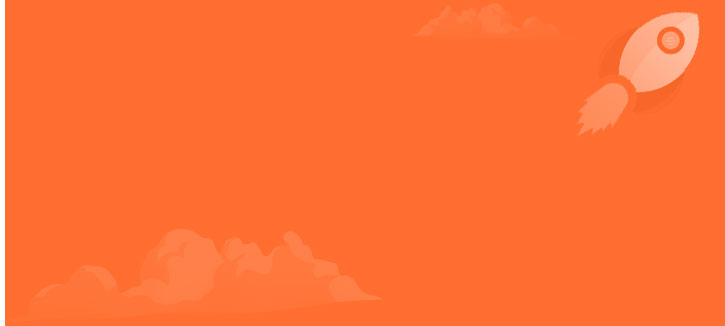
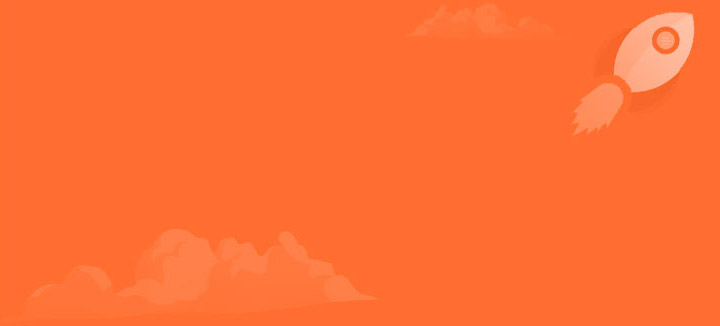
update

Changed region(s): [[0.0, 0.0, 0.0306, 1.0]]

diff --git a/activity/preview161218/html/presale.html b/activity/preview161218/html/presale.html
@@ -1,0 +1,35 @@
+<!DOCTYPE html>
+<html>
+
+<head>
+    <meta charset="utf-8">
+    <meta http-equiv="X-UA-Compatible" content="IE=edge">
+    <meta name="viewport" content="initial-scale=1, user-scalable=0, minimum-scale=1.0, maximum-scale=1.0, shrink-to-fit=no" />
+    <meta name="format-detection" content="telephone=no">
+    <title>preview161218</title>
+    <!-- build:css(dist) ../css/main.css -->
+    <link rel="stylesheet" href="../css/media.css">
+    <link rel="stylesheet" href="../css/animation.css">
+    <!-- endbuild -->
+    <link rel="stylesheet" href="../css/common.css">
+    <link rel="stylesheet" href="../css/presale.css">
+    <!-- build:js({dist}) ../js/lib/adapt.js -->
+    <script src="../js/adapt.js" type="text/javascript" charset="utf-8"></script>
+    <!-- endbuild -->
+</head>
+
+<body>
+    <div class="scroll">
+        <div class="content pre-cont">
+            <i class="icon-pre-txt title-heart"></i>
+            <i class="act-time">活动时间：12月13日-12月17日</i>
+        </div>
+    </div>
+    
+</body>
+<!-- build:js({dist}) ../js/lib/fastclick-jquery-1.8.3.js -->
+<script src="../js/fastclick-jquery-1.8.3.js" type="text/javascript" charset="utf-8"></script>
+<!-- endbuild -->
+<script src="../js/presale.js" type="text/javascript" charset="utf-8"></script>
+
+</html>

diff --git a/activity/preview161218/sass/index.scss b/activity/preview161218/sass/index.scss
@@ -21,9 +21,9 @@ a {
 }
 
 .m-cont {
-    background-color: $bg-orange;
+    background-color: #ff6e30;
     background-image: url('../images/index_bg.jpg'), url('../images/index_love.jpg'), url('../images/index_bg_2.jpg'), url('../images/index_bg_3.png');
-    background-size: pxToRem(750px) pxToRem(940px), pxToRem(189px) pxToRem(187px), pxToRem(725px) pxToRem(326px), pxToRem(750px) pxToRem(570px);
+    background-size: pxToRem(750px) pxToRem(940px), pxToRem(189px) pxToRem(187px), pxToRem(720px) pxToRem(326px), pxToRem(750px) pxToRem(570px);
     background-position: 0 0, pxToRem(550px) pxToRem(1000px), right 62%, 0 bottom;
     background-repeat: no-repeat, no-repeat, no-repeat, no-repeat;
     position: relative;
@@ -216,6 +216,7 @@ a {
 }
 
 .f-cont {
+    max-width: 414px;
     width: 100%;
     height: pxToRem(130px);
     position: absolute;

diff --git a/activity/preview161218/sass/common.scss b/activity/preview161218/sass/common.scss
@@ -251,3 +251,25 @@ a {
         }
     }
 }
+.title-heart {
+    position: relative;
+    &:before {
+        content: "";
+        @include icon-background('../images/txt-heart.png', 40px, 44px);
+        @extend .icon-block;
+        position: absolute;
+        right: pxToRem(-50px);
+        top: 50%;
+        margin-top: pxToRem(-20px);
+    }
+    &:after {
+        content: "";
+        @include icon-background('../images/txt-heart.png', 40px, 44px);
+        @extend .icon-block;
+        position: absolute;
+        left: pxToRem(-50px);
+        top: 50%;
+        margin-top: pxToRem(-20px);
+        transform: rotateY(180deg);
+    }
+}

diff --git a/activity/preview161218/sass/presale.scss b/activity/preview161218/sass/presale.scss
@@ -1,0 +1,13 @@
+@charset "UTF-8";
+@import "variables";
+@import "sprite";
+@import "../../../sass/reset";
+@import "../../../sass/func";
+.pre-cont {
+	padding-top: pxToRem(50px);
+}
+.icon-pre-txt {
+	@include icon-background('../images/presale-txt.png', 614px, 54px);
+	@extend .icon-block;
+	margin: auto;
+}

diff --git a/activity/preview161218/js/presale.js b/activity/preview161218/js/presale.js
@@ -1,0 +1,5 @@
+(function() {
+	FastClick.attach(document.body);
+	
+	
+})();
